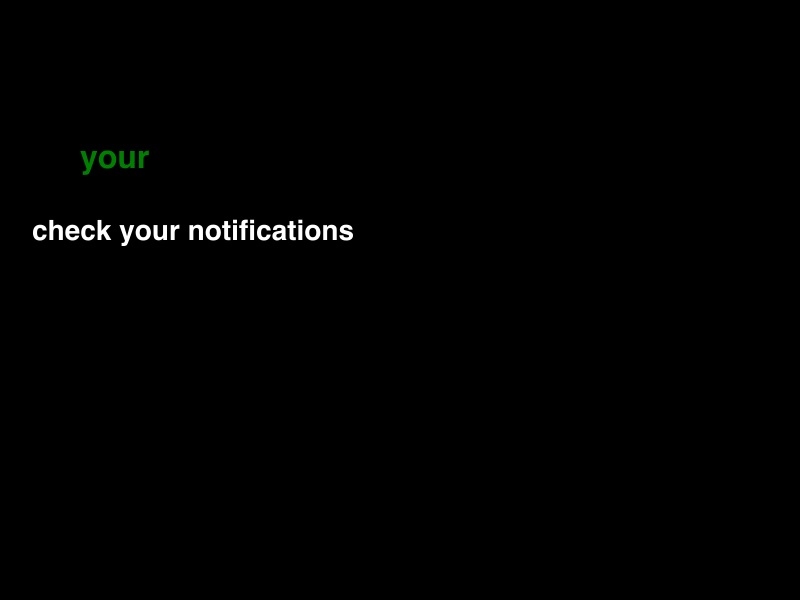
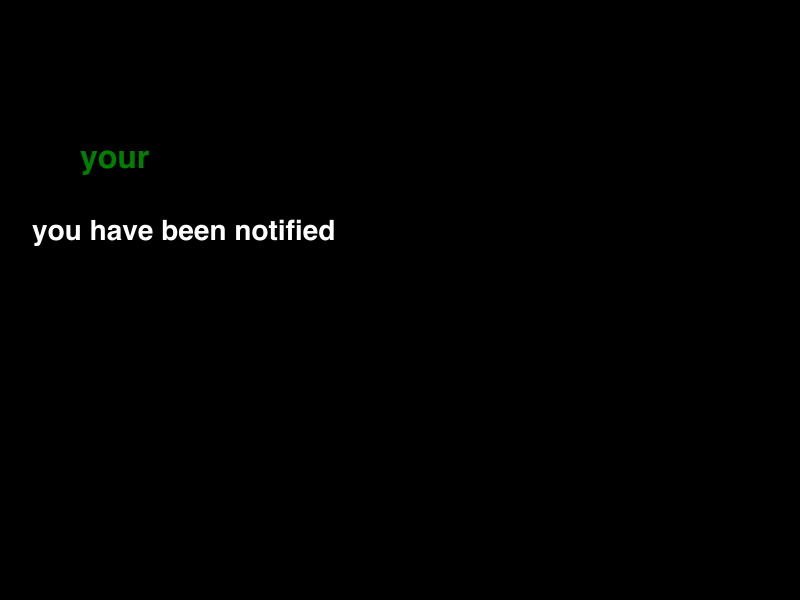
aloja

Changed region(s): [[0.0312, 0.36, 0.4375, 0.42]]

diff --git a/routes/farhack/index.js b/routes/farhack/index.js
@@ -189,7 +189,7 @@ router.post("/second-frame", async (req, res) => {
             createInstantaneousCastForThisUser(fid);
           }
           if (response.success) {
-            imageCopy = `your preference is known. check your notifications.`;
+            imageCopy = `your preference is known.`;
           } else {
             imageCopy = `there was an error. please try again`;
           }
@@ -214,7 +214,7 @@ router.post("/second-frame", async (req, res) => {
         <head>
           <title>${botName}</title>
           <meta property="og:title" content="anky mint">
-          <meta property="og:image" content=${fullUrl}/farhack/image?text=}>
+          <meta property="og:image" content=${fullUrl}/farhack/image}>
           <meta name="fc:frame" content="vNext">
           <meta name="fc:frame:image" content=${fullUrl}/farhack/image?text=${encodeURIComponent(
             imageCopy
@@ -254,19 +254,12 @@ router.post("/second-frame", async (req, res) => {
           req.body.untrustedData.fid
         );
       } else if (Number(req.body.untrustedData.buttonIndex) == 2) {
-        console.log(
-          `a reply is going to sent now and be scheduled for the future`
-        );
         await replyToThisUserRightNow(req.body.untrustedData.fid);
         setTimeout(() => {
           replyToThisUserRightNow(req.body.untrustedData.fid);
         }, (millisecondsPerHours * 6) / 10);
       } else if (Number(req.body.untrustedData.buttonIndex) == 3) {
         await replyToThisUserRightNow(req.body.untrustedData.fid);
-        console.log(
-          `a reply is going to sent now and be scheduled for the future two times`
-        );
-
         setTimeout(() => {
           replyToThisUserRightNow(req.body.untrustedData.fid);
         }, millisecondsPerHours * 2);
@@ -275,7 +268,7 @@ router.post("/second-frame", async (req, res) => {
         }, millisecondsPerHours * 3);
       }
       let theUserPrompt = "your wishes are my commands.";
-      imageCopy = "check your notifications";
+      imageCopy = "you have been notified";
 
       return res.status(200).send(`
           <!DOCTYPE html>
@@ -322,12 +315,9 @@ router.post("/third-frame", async (req, res) => {
   try {
     let imageCopy;
     const fullUrl = req.protocol + "://" + req.get("host");
-    console.log("inside the frame server", req.body);
     if (req.body.untrustedData.buttonIndex == 1) {
-      console.log("HERE");
       let gameOver = "game over";
       imageCopy = "you wont get more replies from me";
-      console.log("right before this", gameOver);
 
       return res.status(200).send(`
       <!DOCTYPE html>
@@ -347,7 +337,6 @@ router.post("/third-frame", async (req, res) => {
         `);
     } else {
       imageCopy = "how many replies do you want to receive daily?";
-      console.log("IN HEREEEE");
       return res.status(200).send(`
         <!DOCTYPE html>
         <html>
@@ -766,21 +755,23 @@ async function findCastAndGetTextToReplyToUser(fid, randomCast) {
 
 async function talkToBot(userText) {
   try {
-    const messages = [
-      {
-        role: "system",
-        content: `You are a fun member of a social media network called Farcaster. You are interacting with the user through a farcaster frame, and your mission is to reply to what the user just said teasing her.`,
-      },
-      { role: "user", content: userText },
-    ];
+    const response = await axios.post("http://localhost:8000", { userText });
 
-    const completion = await openai.chat.completions.create({
-      model: "gpt-3.5-turbo-0125",
-      messages: messages,
-    });
+    // const messages = [
+    //   {
+    //     role: "system",
+    //     content: `You are a fun member of a social media network called Farcaster. You are interacting with the user through a farcaster frame, and your mission is to reply to what the user just said teasing her.`,
+    //   },
+    //   { role: "user", content: userText },
+    // ];
 
-    const replyFromTheBot = completion.choices[0].message.content;
-    return replyFromTheBot;
+    // const completion = await openai.chat.completions.create({
+    //   model: "gpt-3.5-turbo-0125",
+    //   messages: messages,
+    // });
+
+    // const replyFromTheBot = completion.choices[0].message.content;
+    return response;
   } catch (error) {
     console.log("there was an error talking to the bot");
     return "";
